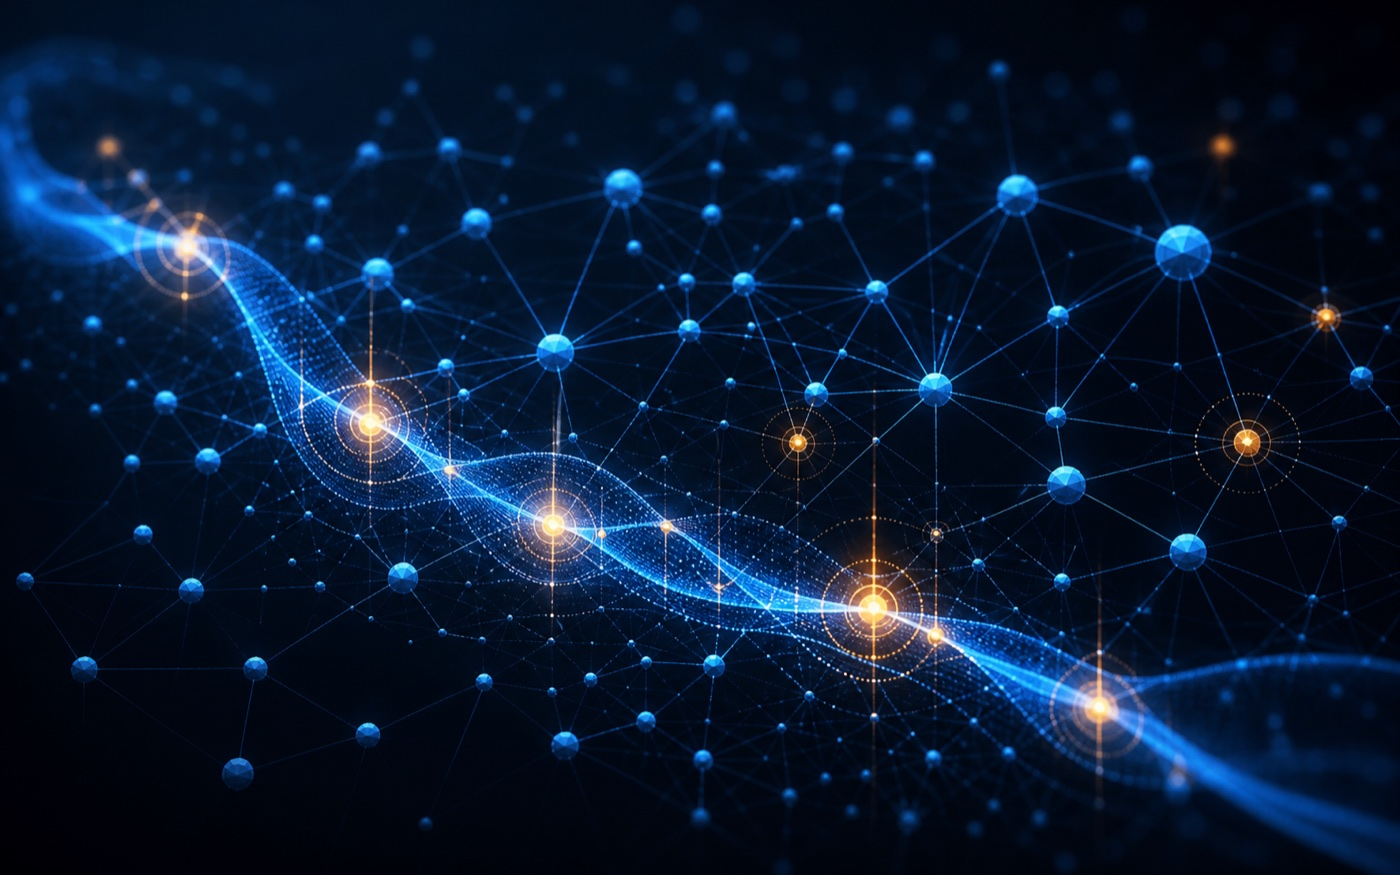
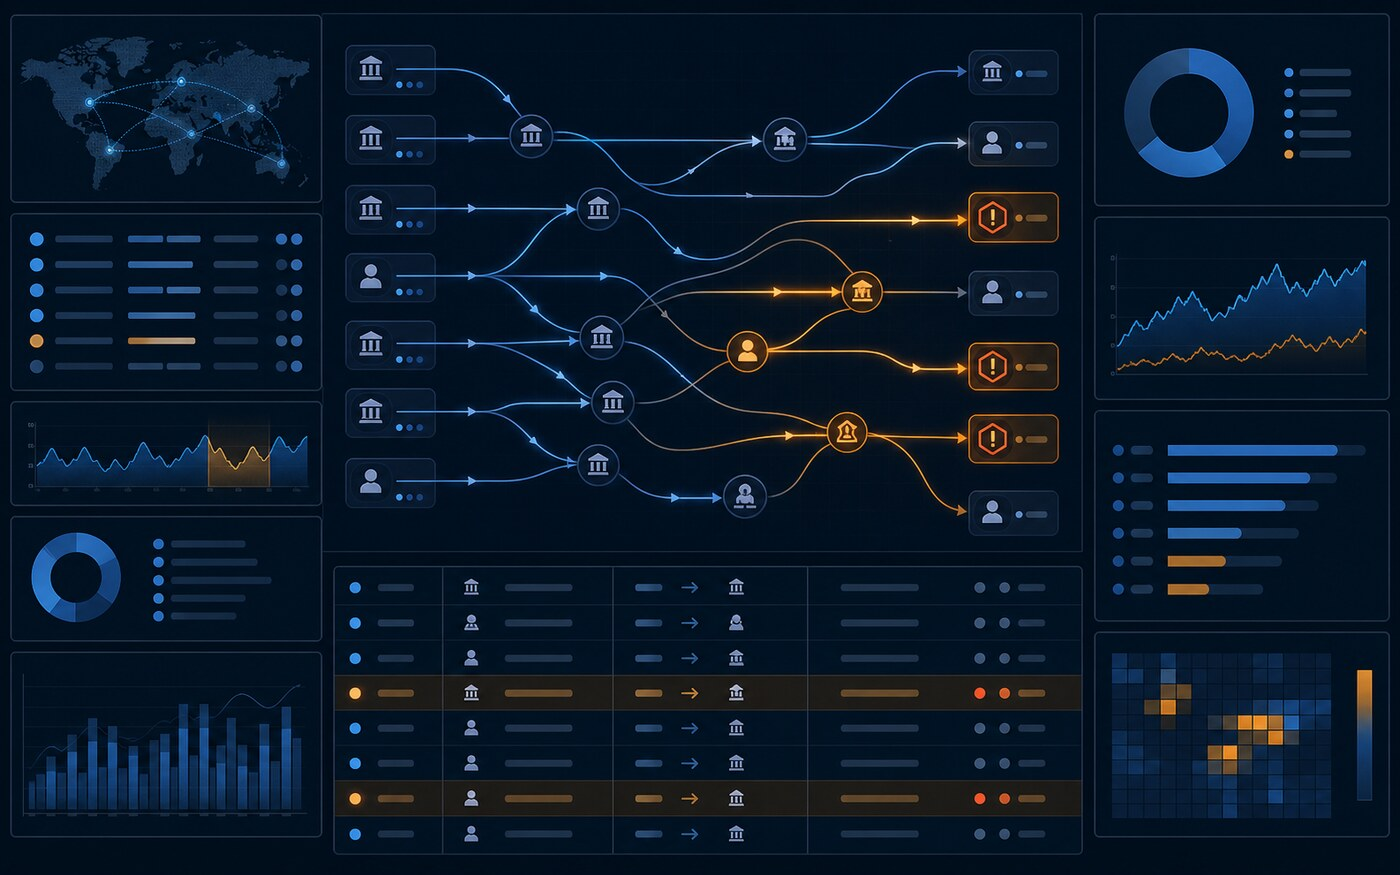
Refresh portfolio project previews

diff --git a/index.html b/index.html
@@ -75,7 +75,7 @@
                 <div class="project-grid">
                     <article class="project-card">
                         <div class="project-image-wrap">
-                            <img class="project-image" src="assets/project-ticket-forge.jpg" alt="Abstract secure workflow with ticket cards moving through an encrypted system" data-i18n-alt="ticketAlt" width="1400" height="933">
+                            <img class="project-image" src="assets/project-ticket-forge.jpg" alt="Ticket Forge workspace with three demo records and an expanded VPN support ticket" data-i18n-alt="ticketAlt" width="1400" height="875">
                             <span class="project-number" aria-hidden="true">01</span>
                         </div>
                         <div class="project-body">
@@ -84,13 +84,13 @@
                             <p class="project-summary" data-i18n="ticketSummary">A browser-based workspace for IT tickets with status flows, search, contacts, reminders and integrated time tracking.</p>
                             <p class="project-result" data-i18n-html="ticketResult"><strong>Privacy by design:</strong> AES-256 local storage and encrypted backup import/export keep ticket data client-side.</p>
                             <div class="tag-list" aria-label="Technologies"><span class="tag">AES-256</span><span class="tag">JavaScript</span><span class="tag">Local-first</span></div>
-                            <a class="project-link" href="https://ticket.cloud-anatol.com" target="_blank" rel="noopener"><span data-i18n="openLive">Open live project</span> <i class="fas fa-arrow-up-right-from-square" aria-hidden="true"></i></a>
+                            <a class="project-link" href="https://ticket.cloud-anatol.com" target="_blank" rel="noopener"><span data-i18n="openLive">View project</span> <i class="fas fa-arrow-up-right-from-square" aria-hidden="true"></i></a>
                         </div>
                     </article>
 
                     <article class="project-card">
                         <div class="project-image-wrap">
-                            <img class="project-image" src="assets/project-vial-gui.jpg" alt="Mechanical keyboard with translucent configuration layers and illuminated routing paths" data-i18n-alt="vialAlt" width="1400" height="933">
+                            <img class="project-image" src="assets/project-vial-gui.jpg" alt="Vial German configurator showing a connected Corne v4.1 keyboard with a QWERTZ keymap" data-i18n-alt="vialAlt" width="1400" height="875">
                             <span class="project-number" aria-hidden="true">02</span>
                         </div>
                         <div class="project-body">
@@ -99,13 +99,13 @@
                             <p class="project-summary" data-i18n="vialSummary">A tailored web configurator for Vial-compatible keyboards, with stronger German QWERTZ support and a refined macro workflow.</p>
                             <p class="project-result" data-i18n-html="vialResult"><strong>Device-aware:</strong> WebHID and WebAssembly read firmware definitions, layouts, layers and supported features directly from the keyboard.</p>
                             <div class="tag-list" aria-label="Technologies"><span class="tag">WebHID</span><span class="tag">WebAssembly</span><span class="tag">Open source</span></div>
-                            <a class="project-link" href="https://ana7ol.github.io/vial-gui/" target="_blank" rel="noopener"><span data-i18n="openLive">Open live project</span> <i class="fas fa-arrow-up-right-from-square" aria-hidden="true"></i></a>
+                            <a class="project-link" href="https://ana7ol.github.io/vial-gui/" target="_blank" rel="noopener"><span data-i18n="openLive">View project</span> <i class="fas fa-arrow-up-right-from-square" aria-hidden="true"></i></a>
                         </div>
                     </article>
 
                     <article class="project-card">
                         <div class="project-image-wrap">
-                            <img class="project-image" src="assets/project-aml.jpg" alt="Temporal signal moving through a network graph with rare events highlighted" data-i18n-alt="amlAlt" width="1400" height="933">
+                            <img class="project-image" src="assets/project-aml.jpg" alt="Financial transaction monitoring dashboard with suspicious money flows highlighted" data-i18n-alt="amlAlt" width="1400" height="875">
                             <span class="project-number" aria-hidden="true">03</span>
                         </div>
                         <div class="project-body">
@@ -211,7 +211,7 @@
             <div class="container contact-layout">
                 <div>
                     <p class="section-label" data-i18n="contactLabel">Contact</p>
-                    <h2 data-i18n="contactTitle">Let’s build something useful.</h2>
+                    <h2 data-i18n="contactTitle">Open to new projects.</h2>
                     <p class="section-intro" data-i18n="contactIntro">I’m based in Celle, Germany, and interested in thoughtful software, automation and applied AI.</p>
                 </div>
                 <div class="contact-links">

diff --git a/script.js b/script.js
@@ -23,16 +23,16 @@ window.addEventListener('DOMContentLoaded', () => {
         projectsLabel: 'Ausgewählte Arbeiten',
         projectsTitle: 'Für den Praxiseinsatz entwickelt.',
         projectsIntro: 'Eine Auswahl aus Produktentwicklung und Forschung – von verschlüsselten Workflows und Hardwarekonfiguration bis zu Machine Learning auf stark unausgewogenen Daten.',
-        ticketAlt: 'Abstrakter sicherer Workflow mit Ticketkarten, die ein verschlüsseltes System durchlaufen',
+        ticketAlt: 'Ticket-Forge-Arbeitsbereich mit drei Demo-Einträgen und einem geöffneten VPN-Supportticket',
         ticketDate: 'Aug. 2026—heute',
         ticketSummary: 'Eine browserbasierte Arbeitsumgebung für IT-Tickets mit Statusabläufen, Suche, Kontakten, Erinnerungen und integrierter Zeiterfassung.',
         ticketResult: '<strong>Datenschutz by Design:</strong> Lokaler AES-256-Datenspeicher sowie verschlüsselter Backup-Import und -Export halten sämtliche Ticketdaten auf dem Endgerät.',
-        openLive: 'Live-Projekt öffnen',
-        vialAlt: 'Mechanische Tastatur mit transparenten Konfigurationsebenen und leuchtenden Signalwegen',
+        openLive: 'Zum Projekt',
+        vialAlt: 'Vial-German-Konfigurator mit verbundener Corne-v4.1-Tastatur und deutscher QWERTZ-Belegung',
         vialDate: 'Juli 2026—heute',
         vialSummary: 'Ein angepasster Web-Konfigurator für Vial-kompatible Tastaturen mit verbessertem QWERTZ-Support und einem optimierten Makro-Workflow.',
         vialResult: '<strong>Gerätebasiert:</strong> WebHID und WebAssembly lesen Firmwaredefinition, Layout, Layer und unterstützte Funktionen direkt von der Tastatur aus.',
-        amlAlt: 'Zeitliches Signal in einem Netzwerkgraphen mit hervorgehobenen seltenen Ereignissen',
+        amlAlt: 'Dashboard zur Überwachung von Finanztransaktionen mit hervorgehobenen verdächtigen Zahlungsströmen',
         amlDate: 'Okt. 2024—Aug. 2025',
         research: 'Forschung',
         amlTitle: 'Deep Learning zur Geldwäscheprävention',
@@ -78,7 +78,7 @@ window.addEventListener('DOMContentLoaded', () => {
         skillStyleTitle: 'Arbeitsweise',
         skillStyleBody: 'Strukturierte Problemlösung, technische Beratung, Forschungsevaluation und klare bereichsübergreifende Kommunikation',
         contactLabel: 'Kontakt',
-        contactTitle: 'Lassen Sie uns etwas Nützliches entwickeln.',
+        contactTitle: 'Offen für neue Projekte.',
         contactIntro: 'Ich lebe in Celle und interessiere mich für durchdachte Software, Automatisierung und angewandte KI.',
         footerTag: 'IT System Engineering · KI · Automatisierung'
     };
